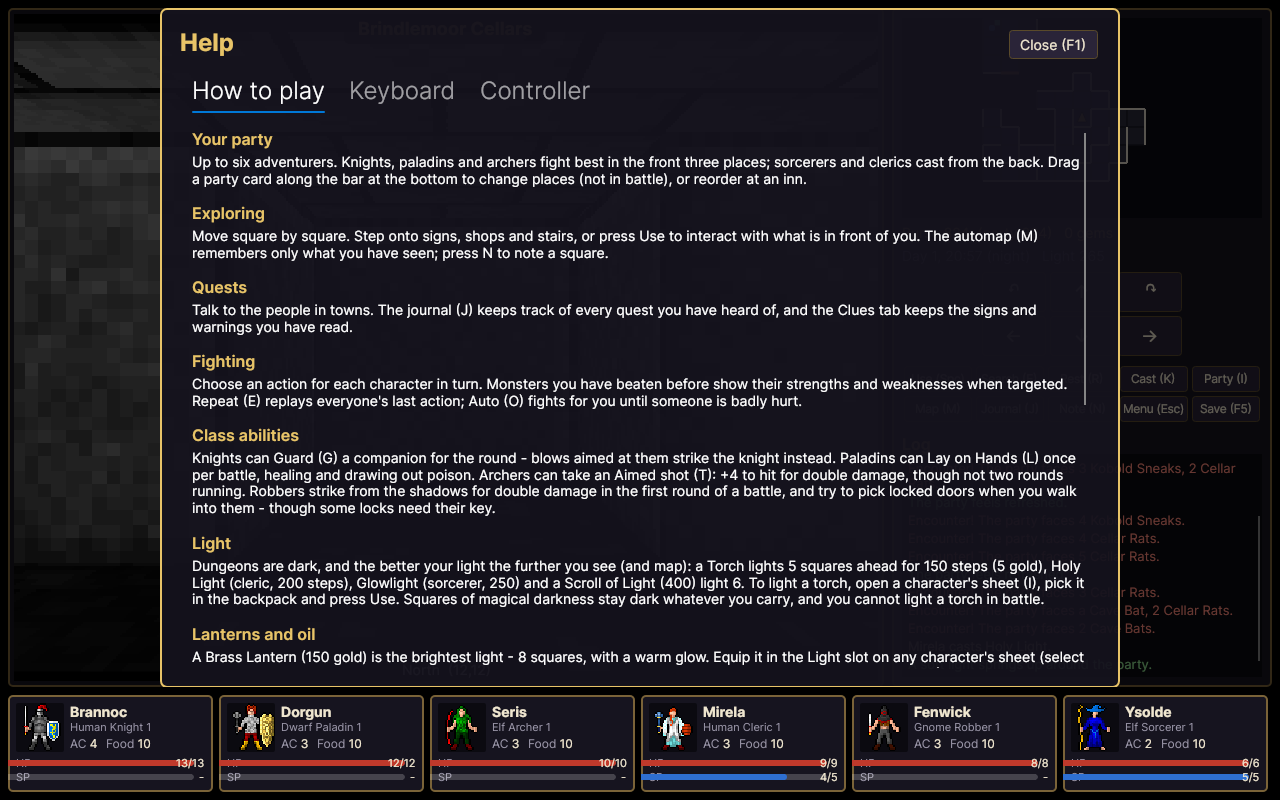
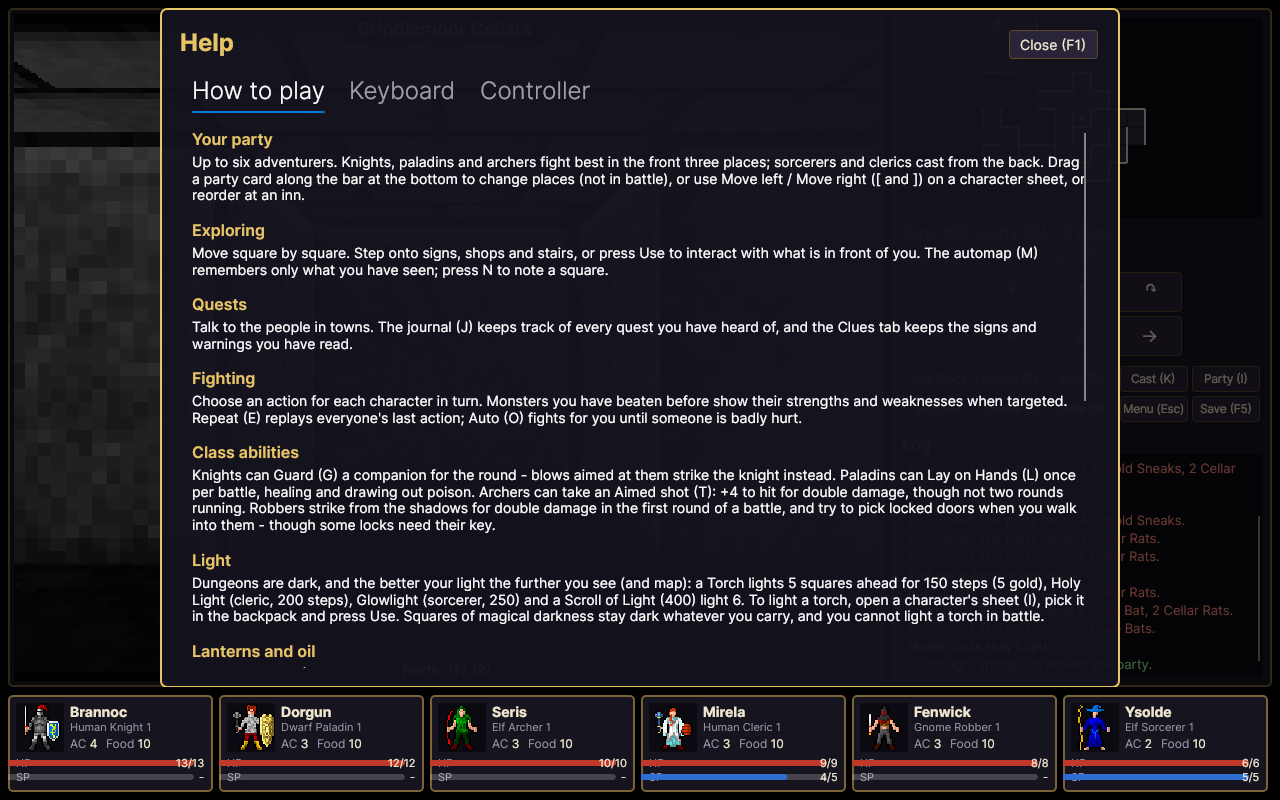
Move party members left/right from the character sheet ([ and ])

Changed region(s): [[0.1562, 0.2188, 0.8438, 0.8438], [0.5312, 0.2188, 0.8438, 0.25]]

diff --git a/src/AVAMMB1.App/ViewModels/InfoViewModels.cs b/src/AVAMMB1.App/ViewModels/InfoViewModels.cs
@@ -71,12 +71,14 @@ public sealed partial class HelpViewModel : ViewModelBase
         _onClose = onClose;
         Keys = Enum.GetValues<InputAction>()
             .Select(a => new HelpRow(PadRow.LabelOf(a), settings.KeyBindings.TryGetValue(a, out var k) && k.Count > 0 ? string.Join(", ", k) : "-"))
+            .Append(new HelpRow("Character sheet: move the character a place left / right", "[, ]"))
             .Concat(CombatKeys)
             .ToList();
         Pad = Enum.GetValues<InputAction>()
             .Where(a => settings.GamepadBindings.ContainsKey(a))
             .Select(a => new HelpRow(PadRow.LabelOf(a), PadRow.Name(settings.GamepadBindings[a])))
             .Append(new HelpRow("Menu (always)", "Start"))
+            .Append(new HelpRow("Change places", "Party sheet: Move left / Move right buttons"))
             .Concat(CombatPad)
             .ToList();
     }
@@ -110,7 +112,7 @@ public sealed partial class HelpViewModel : ViewModelBase
     /// <summary>How-to-play sections.</summary>
     public IReadOnlyList<HelpRow> Basics { get; } =
     [
-        new("Your party", "Up to six adventurers. Knights, paladins and archers fight best in the front three places; sorcerers and clerics cast from the back. Drag a party card along the bar at the bottom to change places (not in battle), or reorder at an inn."),
+        new("Your party", "Up to six adventurers. Knights, paladins and archers fight best in the front three places; sorcerers and clerics cast from the back. Drag a party card along the bar at the bottom to change places (not in battle), or use Move left / Move right ([ and ]) on a character sheet, or reorder at an inn."),
         new("Exploring", "Move square by square. Step onto signs, shops and stairs, or press Use to interact with what is in front of you. The automap (M) remembers only what you have seen; press N to note a square."),
         new("Quests", "Talk to the people in towns. The journal (J) keeps track of every quest you have heard of, and the Clues tab keeps the signs and warnings you have read."),
         new("Fighting", "Choose an action for each character in turn. Monsters you have beaten before show their strengths and weaknesses when targeted. Repeat (E) replays everyone's last action; Auto (O) fights for you until someone is badly hurt."),

diff --git a/src/AVAMMB1.App/ViewModels/CharacterViewModels.cs b/src/AVAMMB1.App/ViewModels/CharacterViewModels.cs
@@ -132,6 +132,8 @@ public sealed partial class CharacterSheetViewModel : ViewModelBase
         }
         Selected = null;
         OnPropertyChanged(nameof(Member));
+        OnPropertyChanged(nameof(CanMoveLeft));
+        OnPropertyChanged(nameof(CanMoveRight));
         OnPropertyChanged(nameof(Character));
         OnPropertyChanged(nameof(Header));
         OnPropertyChanged(nameof(Summary));
@@ -177,6 +179,28 @@ public sealed partial class CharacterSheetViewModel : ViewModelBase
 
     [RelayCommand]
     private void ShareGold() => GoldDone(Session.Town.ShareEvenly());
+
+    /// <summary>Whether the shown character can move one place forward / back in the marching order.</summary>
+    public bool CanMoveLeft => Index > 0;
+
+    /// <inheritdoc cref="CanMoveLeft" />
+    public bool CanMoveRight => Index < _game.Party.Count - 1;
+
+    [RelayCommand]
+    private void MoveLeft() => MoveTo(Index - 1);
+
+    [RelayCommand]
+    private void MoveRight() => MoveTo(Index + 1);
+
+    private void MoveTo(int place)
+    {
+        if (place < 0 || place >= _game.Party.Count || _game.MoveMember(Index, place, fromSheet: true) is not { } text)
+        {
+            return;
+        }
+        Index = place; // keep showing the same character
+        Feedback = text;
+    }
 
     [RelayCommand]
     private void Next() => Index = (Index + 1) % _game.Party.Count;
@@ -250,6 +274,8 @@ public sealed partial class CharacterSheetViewModel : ViewModelBase
             case Key.Left: Previous(); return true;
             case >= Key.D1 and <= Key.D6 when key - Key.D1 < _game.Party.Count: Index = key - Key.D1; return true;
             case Key.I or Key.C: Close(); return true;
+            case Key.OemOpenBrackets: MoveLeft(); return true;
+            case Key.OemCloseBrackets: MoveRight(); return true;
             default: return false;
         }
     }

diff --git a/src/AVAMMB1.App/ViewModels/GameViewModel.cs b/src/AVAMMB1.App/ViewModels/GameViewModel.cs
@@ -232,20 +232,24 @@ public sealed partial class GameViewModel : ViewModelBase
     /// <summary>Moves a party member to another place (drag and drop on the party cards).</summary>
     /// <param name="from">Current index.</param>
     /// <param name="to">New index.</param>
-    public void MoveMember(int from, int to)
+    /// <param name="fromSheet">True when asked from the character sheet (which is itself an overlay).</param>
+    /// <returns>The message describing the move, or null if nothing moved.</returns>
+    public string? MoveMember(int from, int to, bool fromSheet = false)
     {
         if (InCombat)
         {
             AddMessage("There is no time to change places in the middle of a battle.");
-            return;
+            return null;
         }
-        if (HasOverlay || !Session.MoveMember(from, to))
+        if (HasOverlay && !fromSheet || !Session.MoveMember(from, to))
         {
-            return;
+            return null;
         }
         var c = Session.State.Party[to];
-        AddMessage($"{c.Name} moves to place {to + 1}{(to < 3 ? " (front rank)" : "")}.");
+        var text = $"{c.Name} moves to place {to + 1}{(to < 3 ? " (front rank)" : "")}.";
+        AddMessage(text);
         Refresh();
+        return text;
     }
 
     /// <summary>Adds messages to the log and plays their sounds.</summary>

diff --git a/src/AVAMMB1.App/Services/HeadlessRunner.cs b/src/AVAMMB1.App/Services/HeadlessRunner.cs
@@ -146,6 +146,19 @@ public static class HeadlessRunner
         {
             throw new InvalidOperationException("Clicking a party card no longer opens the character sheet.");
         }
+        // Keyboard / controller route: Move right on the sheet, then back with "[".
+        var sheet = (CharacterSheetViewModel)game.Overlay;
+        var shown = sheet.Character;
+        sheet.MoveRightCommand.Execute(null);
+        if (!ReferenceEquals(s.State.Party[2], shown) || !ReferenceEquals(sheet.Character, shown))
+        {
+            throw new InvalidOperationException("Move right on the character sheet did not move the character.");
+        }
+        sheet.HandleKey(Key.OemOpenBrackets);
+        if (!s.State.Party.SequenceEqual(before))
+        {
+            throw new InvalidOperationException("[ on the character sheet did not move the character back.");
+        }
         game.CloseOverlay();
         while (game.Messages.Count > logLength)
         {

diff --git a/README.md b/README.md
@@ -69,7 +69,8 @@ Code identifiers, the solution and executables use the name **`AVAMMB1`** (`AVAM
   donate), taverns (food, rumors), smithies and magic shops, training grounds, and **academies**
   where gold buys permanent statistic points (each lesson dearer than the last - a late-game gold sink).
 - **Drag-and-drop marching order**: drag a party card along the bar at the bottom of the screen to
-  change places (anywhere but in battle); a click still opens the character sheet.
+  change places (anywhere but in battle); a click still opens the character sheet. Without a mouse,
+  Move left / Move right on the character sheet (`[` / `]`, or the buttons with a controller).
 - **Twenty-three maps**: six towns (Brindlemoor, Saltreach, Thornwick, Duskmere, Port Ashkar and
   Wintermere), four wilderness regions (the Greenvale Wilds, the Ashen Hills, the Sunscar Wastes and
   the Frostmark), twelve dungeon levels plus the final vault. The main quest chain (keys, quest items, flags) leads to a final boss
@@ -262,7 +263,7 @@ GitHub's runners - each RID on its own operating system - after the test suite p
 | osx-arm64 | macOS runner (ad-hoc signed `.app`) | **yes** - `--smoke-test` passes in CI, audio device opened; play-tested by the maintainer |
 | linux-arm64 | Ubuntu runner (cross-compiled) | **yes** - the published release archive was downloaded and passes `--smoke-test` on an ARM64 Linux machine; the README screenshots are captured with this build |
 | win-arm64 | Windows runner (cross-compiled) | **yes** - play-tested by the maintainer on Windows on ARM |
-| osx-x64 | macOS runner (cross-compiled) | no |
+| osx-x64 | macOS runner (cross-compiled) | **yes** - play-tested by the maintainer on an Intel Mac |
 
 The CI runners have no sound card, so on Windows and Linux the smoke test only checks that the
 bundled OpenAL Soft library loads; on macOS (CI) and Linux ARM64 it also opens the audio device and

diff --git a/CHANGELOG.md b/CHANGELOG.md
@@ -5,6 +5,14 @@ All notable changes to this project are documented here. The format follows
 
 ## [Unreleased]
 
+### Added
+- Change the marching order without a mouse: the character sheet has Move left / Move right buttons
+  (keys `[` and `]`; a controller reaches the buttons like any other). The sheet follows the
+  character as they move.
+
+### Changed
+- macOS Intel (osx-x64) builds are now verified (play-tested on an Intel Mac).
+
 ## [1.9.1] - 2026-10-09
 
 ### Fixed
